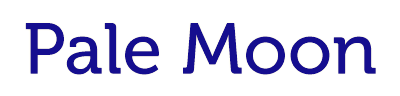
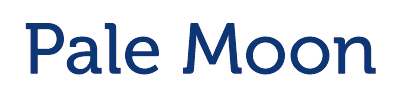
Website/branding tweaks

Changed region(s): [[0.45, 0.2188, 0.96, 0.7812], [0.06, 0.2188, 0.42, 0.7812]]

diff --git a/pagestyle.css b/pagestyle.css
@@ -26,7 +26,7 @@ body.index {
 h1 {
   font-family: "Museo300Regular","Times New Roman",Times,serif;
   font-size: 20.5pt;
-  color: #000066;
+  color: #0B3775;
   margin: 0.5em auto;
 }
 
@@ -44,6 +44,11 @@ a, a:visited, a:active {
 
 a:hover {
   color: rgb(192, 19, 20);
+}
+
+.frontpagelinks {
+  display: flex;
+  justify-content: center;
 }
 
 .maintable {
@@ -189,6 +194,7 @@ pre {
   padding: 4px 4px 4px 68px;
   color: white;
   text-decoration: none;
+  background-color: #6060F0;
   background-image: url("images/windows_flag.png"),
                     linear-gradient(to bottom, #4040F0, #8080F0);
   background-repeat: no-repeat;
@@ -202,6 +208,7 @@ pre {
   padding: 4px 4px 4px 68px;
   color: white;
   text-decoration: none;
+  background-color: #60A060;
   background-image: url("images/tux_penguin.png"),
                     linear-gradient(to bottom, #40A040, #80A080);
   background-repeat: no-repeat;
@@ -236,44 +243,6 @@ pre {
 
 .dllink_os:hover {
   opacity: 1;
-}
-
-.chatbutton-freenode {
-  border-style: solid;
-  border-color: black;
-  border-width: 1px;
-  border-radius: 8px;
-  padding: 24px 16px 24px 54px;
-  background-color: #d3d3f0;
-  color: black !important;
-  text-decoration: none;
-  background-image: url(contact/irc-logo-s.png);
-  background-repeat: no-repeat;
-  background-position: 6px center;
-}
-
-.chatbutton-kiwi {
-  border-style: solid;
-  border-color: black;
-  border-width: 1px;
-  border-radius: 8px;
-  padding: 24px 16px 24px 54px;
-  background-color: #505050;
-  color: white !important;
-  text-decoration: none;
-  background-image: url(contact/kiwi-logo.png);
-  background-repeat: no-repeat;
-  background-position: 6px center;
-}
-
-.chatframe {
-  margin-top:8px;
-  border:1px solid #eee;
-  border-radius: 5px;
-  overflow: hidden;
-  box-shadow: 1px 1px 3px black;
-  width:100%;
-  height:450px;
 }
 
 /* text classes */
